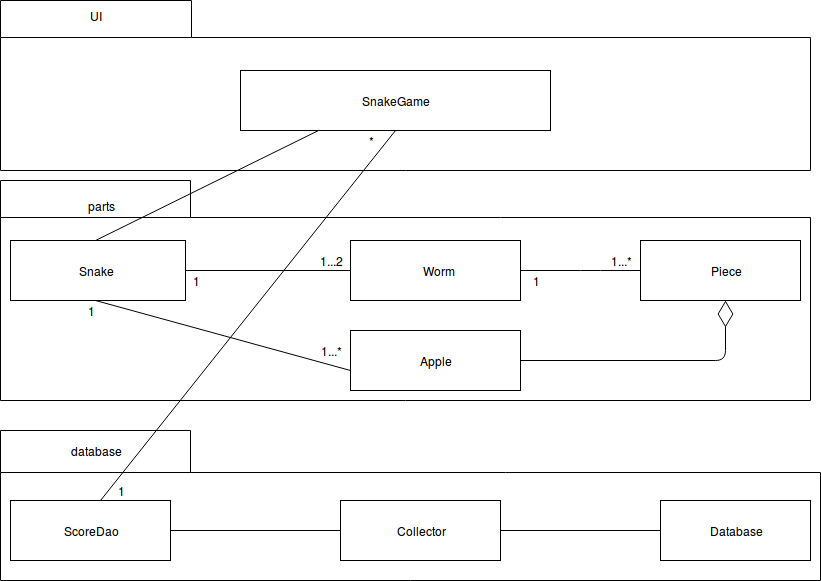
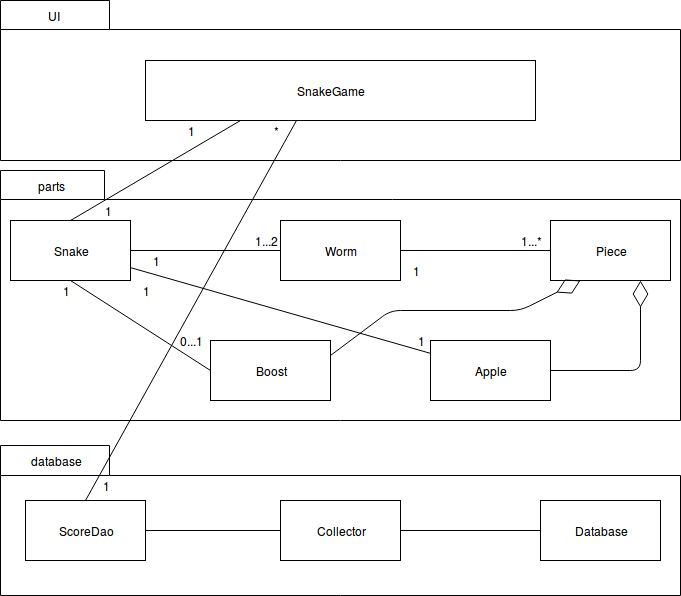
dokumentaatiioo

diff --git a/Snake/src/main/java/snake/ui/SnakeGame.java b/Snake/src/main/java/snake/ui/SnakeGame.java
@@ -194,6 +194,10 @@ public class SnakeGame extends Application {
                 drawer.setFill(Color.BLACK);
                 drawer.fillRect(0, 0, width * sizeofsquare, height * sizeofsquare);
 
+                drawer.setFill(Color.RED);
+                Apple apple = snake.getApple();
+                drawer.fillRect(apple.getX() * sizeofsquare, apple.getY() * sizeofsquare, sizeofsquare, sizeofsquare);
+                
                 drawer.setFill(Color.FUCHSIA);
                 if (!snake.getIsOn()) {
                     drawer.setFill(Color.PINK);
@@ -213,10 +217,7 @@ public class SnakeGame extends Application {
                     Boost boost = snake.getBoost();
                     drawer.fillRect(boost.getX() * sizeofsquare, boost.getY() * sizeofsquare, sizeofsquare, sizeofsquare);
                 }
-                drawer.setFill(Color.RED);
-                Apple apple = snake.getApple();
-                drawer.fillRect(apple.getX() * sizeofsquare, apple.getY() * sizeofsquare, sizeofsquare, sizeofsquare);
-
+                
             }
         }.start();
 
@@ -231,8 +232,8 @@ public class SnakeGame extends Application {
                 int speed = 5;
                 if (!classicbool) {
                     speed = snake.getWorm().getSpeed();
-                    if (speed > 12) {
-                        speed = 12;
+                    if (speed > 10) {
+                        speed = 10;
                     }
                 }
                 if (now - previous < 4E8 - 40000000 * speed) {
@@ -256,8 +257,8 @@ public class SnakeGame extends Application {
 
                     //this is how fast the snake moves
                     int speed = snake.getWorm2().getSpeed();
-                    if (speed > 11) {
-                        speed = 11;
+                    if (speed > 10) {
+                        speed = 10;
                     }
                     if (now - previous < 4E8 - 40000000 * speed) {
                         return;

diff --git a/Snake/src/main/java/snake/parts/Snake.java b/Snake/src/main/java/snake/parts/Snake.java
@@ -164,7 +164,7 @@ public class Snake {
             this.isOn = false;
         } else if (wormie.hitsAPiece(apple)) {
             wormie.grow();
-            wormie.setSpeed(wormie.getSpeed() + 1);
+            wormie.setSpeed(wormie.getSpeed() + 2);
             setNewApple();
         }
         if (this.numberOfWorms > 1) {

diff --git a/dokumentaatio/vaatimusmaarittely.md b/dokumentaatio/vaatimusmaarittely.md
@@ -2,13 +2,18 @@
 
 ## Sovelluksen tarkoitus
 Sovellus on jo kaikille tuttu Matopeli pienellä tvistillä. Peliä voi pelata joko yksin, jolloin se toimii normaalin matopelin tapaa WASDilla, tai kaksin kaveria vastaan samalla koneella, jolloin toinen pelaa WASDilla ja toinen nuolinäppäimillä. Lisäksi kaksinpelissä on taistelutoiminnallisuuksi, kuten se, että mato voi ampua itsestään paloja toisen matoa kohti. Jos ammus osuu johonkin muuhun kuin päähän, katkeaa toisen mato (menettäen samalla pisteitä), ja jos ammus osuu päähän, kuolee vastapelaaja.
+
 ## Käyttäjät
 Sovelluksessa on toiminnallisuus rekisteröityä ennen pelin alkua haluamallaan käyttäjätunnuksella, johon tallennetaan pelin jälkeen pistetilanne. Kaksinpelille ja yksinpelille on omat listansa pelin jälkeisistä tuloksista, ja vain 20 parasta käyttäjää tallennetaan.
+
 ## Käyttöliittymäluonnos
-Sovellus koostuu kolmesta eri näkymästä. Ensimmäisenä on alkuvalikko, jossa päätetään haluaako yksin- vai kaksinpelin antamalla tekstikenttiin joko yhden tai kaksi käyttäjätunnusta. Seuraavaksi on tietenkin itse pelikenttä. Pelin päätyttyä siirrytään pistetilannenäkymään, jossa listataan 20 parasta käyttäjätunnusta pisteineen.
+Sovellus koostuu kuudesta eri näkymästä. Ensimmäisenä on alkuvalikko, jossa päätetään haluaako yksin- vai kaksinpelin. Seuraavaksi kerrotaan ohjeet peliin ja annetaan käyttäjätunnukset pelaajalle tai pelaajille. Seuraavaksi on tietenkin itse pelikenttä. Pelin päätyttyä siirrytään tarkastelemaan kyseisen pelin pisteitä. Lopuksi voi vielä tarkastella top-10 highscoreja.
+
 ![Käyttöliittymäluonnos](https://github.com/hallssus/omt-harjoitustyo/blob/master/dokumentaatio/kuvat/kayttoliittymacrop.jpeg)
+
 ## Perusversion tarjoama toiminnallisuus
-Mikäli käyttäjätunnus on jo annettu aikaisemmassa pelissä, oletetaan kyseessä olevan sama tyyppi ja kirjoitetaan uuden pelin tulos aikaisemma päälle, mikäli aikaisemmat pisteet on ylitetty. 
+Pelaaminen yksin tai kaksinpelinä. Yksinpelissä voi valita haluaako nopeutuvat madon vai ei.
+
 ## Jatkokehitysideoita
-Käyttäjätunnus ja salasana voisi olla hyvä, ettei väärinkäyttöjä käyttäjätunnuksissa tapahdu. Se ei kuitenkaan ole oleellisin osa toistaiseksi joten katsotaan, saanko sen aikaiseksi vielä tämän jakson aikana.
+Käyttäjätunnus ja salasana voisi olla hyvä, ettei väärinkäyttöjä käyttäjätunnuksissa tapahdu.
 

diff --git a/dokumentaatio/arkkitehtuuri.md b/dokumentaatio/arkkitehtuuri.md
@@ -6,13 +6,14 @@ Ohjelman rakenne noudattelee kolmitasoista kerrosarkkitehtuuria, ja koodin pakka
 Pakkaus *snake.ui* sisältää JavaFX:llä toteuteus graafisen käyttöliittymän, *snake.parts* sovelluslogiikan ja *snake.database* tietojen pysyväistallennusta vastaavan koodin.
 
 ## Käyttöliittymä
-Käyttöliittymä sisältää viisi erillistä näkymää:
+Käyttöliittymä sisältää kuusi erillistä näkymää:
 * Alkuvalikko, jossa päätetään haluaako pelata yksin vai kaverin kanssa
 * Pelaajan tai pelaajien käyttäjätunnusten kirjoittaminen
 * Ohjeet
 * Peli
 * Pelaajien pisteet
 * Kymmenen parasta tulosta kaikista peleistä koskaan
+
 Nämä on toteutettu Scene-olioilla. Näkymistä jokainen on yksi kerrallaan näkyvissä. Käyttöliittymä rakentuu ohjelmallisesti luokassa [snake.ui.SnakeGame](https://github.com/hallssus/omt-harjoitustyo/blob/master/Snake/src/main/java/snake/ui/SnakeGame.java).
 
 Käyttöliittymä on pyritty eristämään sovelluslogiikasta.
@@ -33,12 +34,18 @@ Pakkauksen snake.database luokat ScoreDao, Database sekä Collector hoitavat tie
 
 
 ### Päätoiminnallisuudet
+
+#### Snake-pelin update
+
 Snake-luokan update-metodin sekvenssikaavio:
 ![Sekvenssikaavio](https://github.com/hallssus/omt-harjoitustyo/blob/master/dokumentaatio/kuvat/Snake.png)
+
 Metodi siis tarkistaa onko mato osunut johonkin ja mikäli ei ole osunut mihinkään, se liikkuu omaan suuntaansa.
+
 
 ## Ohjelman rakenteeseen jääneet heikkoudet
 ### Sovellus
+Jos matoja liikuttaa nopeammin kuin niuden animointi tapahtuu, saattaa törmätä itseensä, sillä suunta vaihtuu, mutta sitä ei ehditä vielä animoimaan. En päässyt tästä bugista eroon.
 Pelaajien nimet voivat olla jo valmiiksi tietokannassa, tai olla vaikka tyhjät, mikä on tietysti tyhmää.
 Pistelaskussa on toistaiseksi parantamisen varaa. 
 ### Käyttöliittymä

diff --git a/dokumentaatio/tyoaikakirjanpito.md b/dokumentaatio/tyoaikakirjanpito.md
@@ -18,5 +18,6 @@
 | 6.5   | 4 h           | Lisäsin boost-omenan kaksinpeliin, jee! Lisäksi madot nopeutuvat omenoita syödessä. 
 | 7.5   | 3 h 		| Korjasin tyhmiä bugeja, nyt pitäisi toimia ihan ok:sti. Lisäksi tein sikana testejä database-paketin luokille ScoreDao ja Database.
 | 8.5	| 3 h		| Parantelin graafista käyttöliittymää sekä tein siitä vähän nätimmän. Pistelasku pitäisi vielä saada paremmaksi, mutta en ole vielä varma miten sen tekisin.
-|10.5	| 2 h 		| Dokumentaatiota päivitetty.
-| yht   | 48 h          |  
+| 10.5	| 2 h 		| Dokumentaatiota päivitetty.
+| 11.5  | 3 h		| Dokumentaatiota päivitetty sekä pistelaskua vähän parannettu.
+| yht   | 51 h          |  
